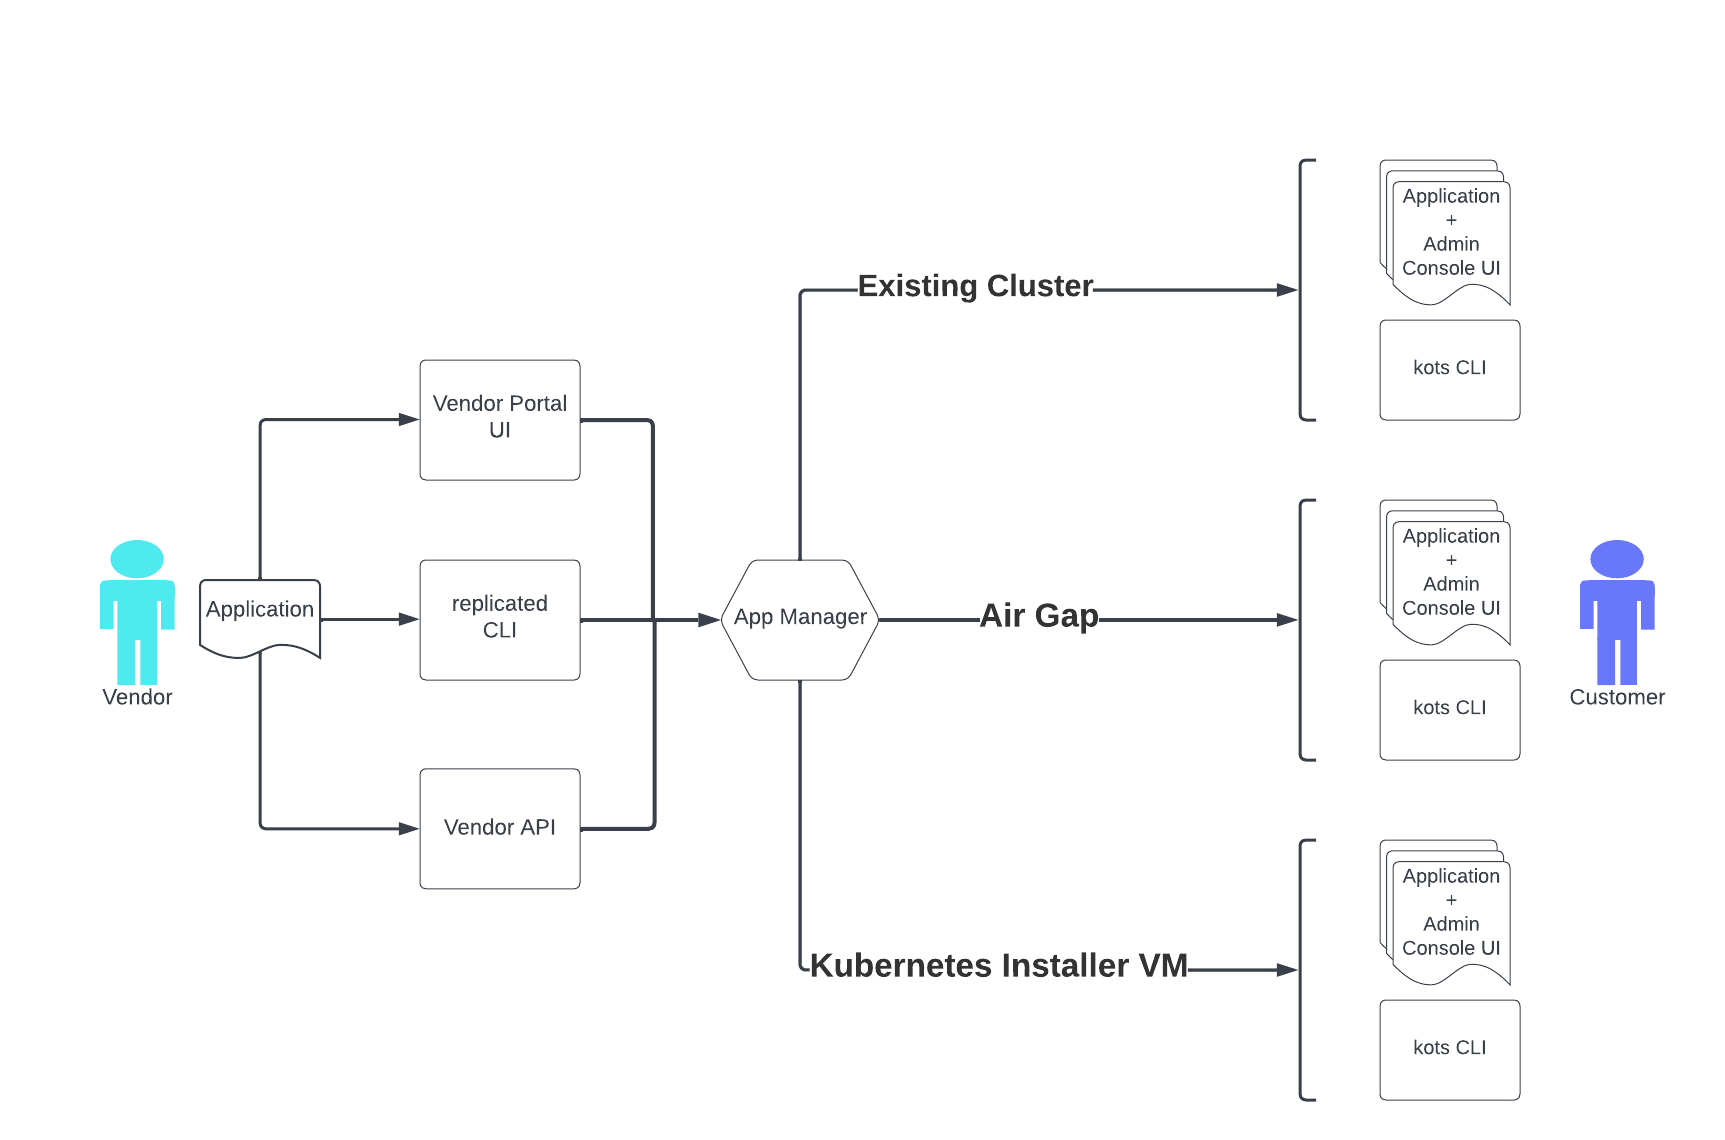
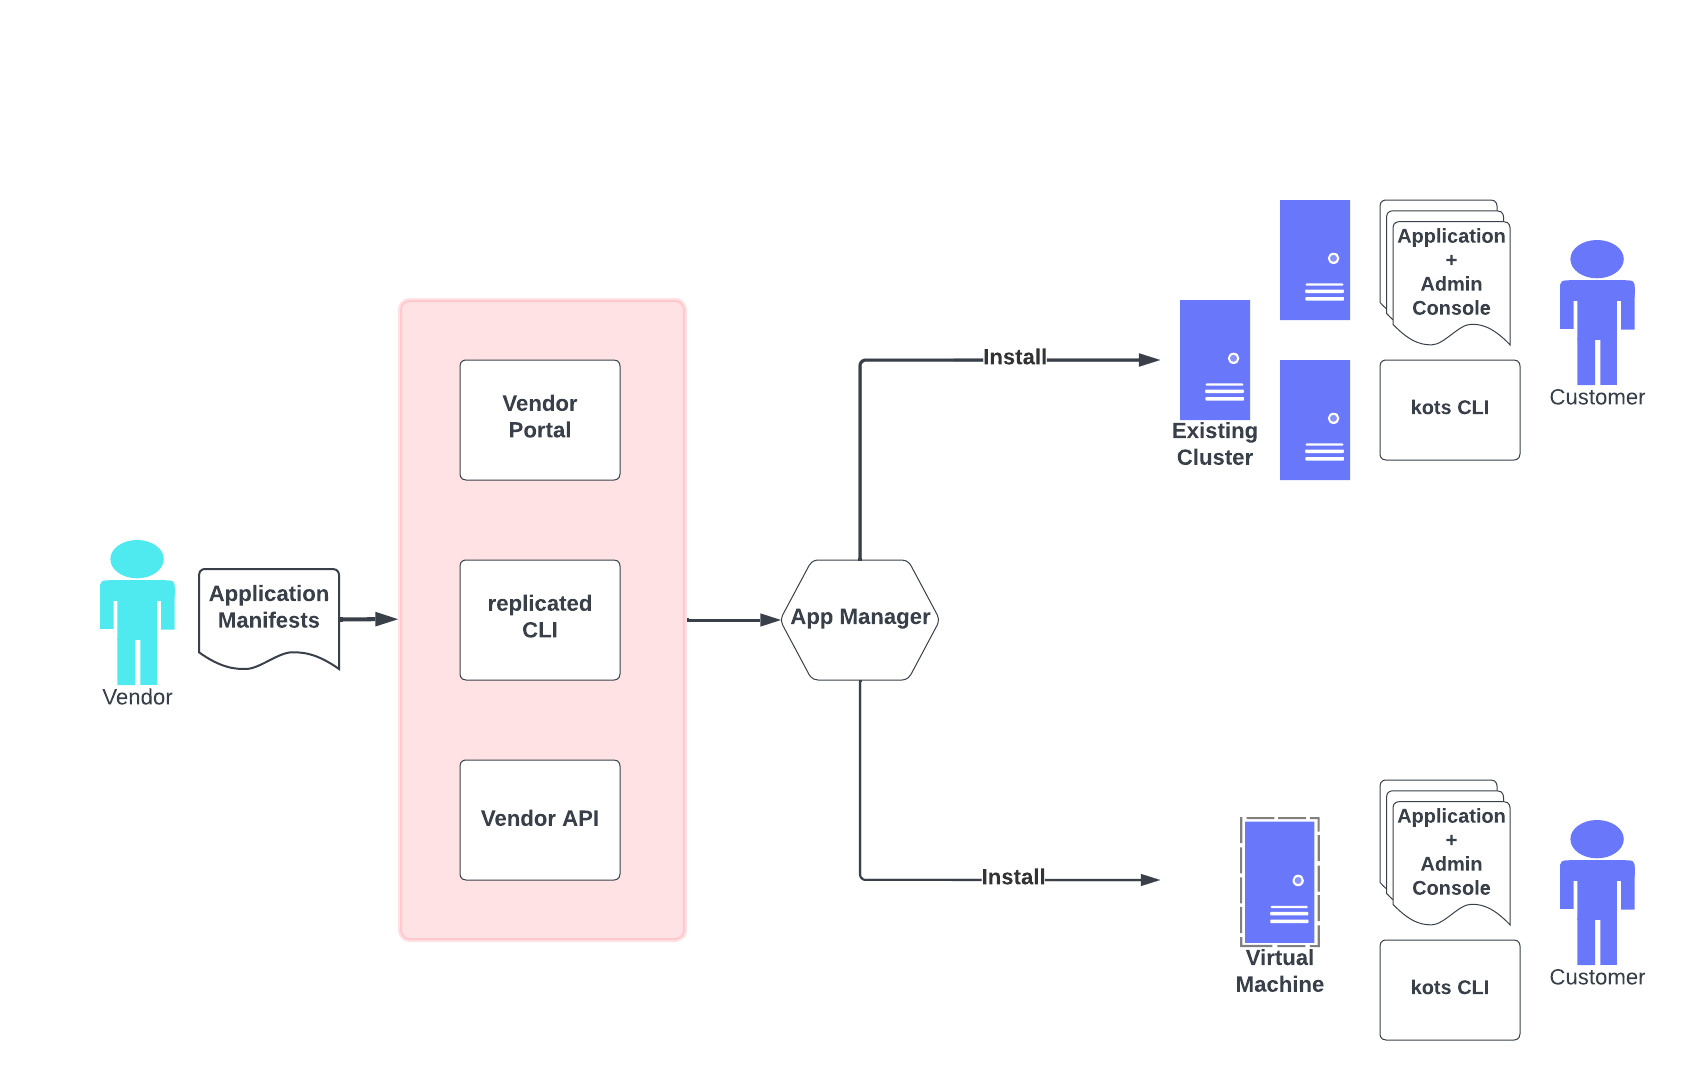
Edits

diff --git a/docs/intro-replicated.md b/docs/intro-replicated.md
@@ -2,6 +2,8 @@
 
 Replicated is an enterprise software distribution platform that lets vendors package their application using Kubernetes manifests or Helm charts and securely distribute their application to diverse customer environments, including both on-premises and cloud environments.
 
+To learn more about Replicated, see [Intro to Replicated: 20 Ways We Help](https://www.youtube.com/watch?v=2eOh7CofY3Q&t=779s) video.
+
 ## Replicated Components
 
 Replicated includes several components that make it easier for vendors to manage their
@@ -13,24 +15,18 @@ users of the application to install, update, and manage their application instan
 
 [View larger image](/images/what-is-replicated.png)
 
-### App Manager
-
-The Replicated app manager is the underlying technology that installs and manages applications on a Kubernetes cluster. The app manager reads the Kubernetes manifest files that you define to package and install an application in a customer environment. It also installs the Replicated admin console and provides preflight and support bundle functionality from the Troubleshoot open source project.
-
-The Replicated app manager is based on the open source KOTS project, which is maintained by Replicated.
-
-### Vendor UI Options
+### Vendor User Interfaces
 
 Vendors can use the following user interface options to package and manage their applications:
 
 <table>
   <tr>
-    <th width="30%">UI Option</th>
+    <th width="30%">User Interface</th>
     <th width="70%">Description</th>
   </tr>
   <tr>
     <td>Vendor Portal</td>
-    <td>The user interface where vendors
+    <td>The graphical user interface where vendors
     define Kubernetes manifest files or Helm charts, including application and custom resource
     manifests. These files describe to the app manager how to
     package the application for distribution. <br></br><br></br>Vendors can also use the vendor portal
@@ -47,19 +43,33 @@ Vendors can use the following user interface options to package and manage their
   </tr>
 </table>
 
+### App Manager
 
-### Customer UI Options
+The Replicated app manager is the underlying technology that installs and manages applications on a Kubernetes cluster. The app manager reads the Kubernetes manifest files that you define to package and install an application in a customer environment. It also installs the Replicated admin console and provides preflight and support bundle functionality from the Troubleshoot open source project.
+
+The app manager deploys applications securely to the following Kubernetes cluster environments:
+
+- Existing clusters
+- Virtual machines, using the Replicated Kubernetes installer
+- Air gapped existing or virtual machine clusters
+
+High availability clusters are supported.
+
+The Replicated app manager is based on the open source KOTS project, which is maintained by Replicated.
+
+
+### Customer User Interfaces
 
 Enterprise customers can use the following user interface options to manage the application in their environment:
 
 <table>
   <tr>
-    <th width="30%">UI Option</th>
+    <th width="30%">User Interface</th>
     <th width="70%">Description</th>
   </tr>
   <tr>
     <td>Admin Console</td>
-    <td>The user interface where customers can configure, update, manage, backup and restore, and troubleshoot
+    <td>The graphical user interface where customers can configure, update, manage, backup and restore, and troubleshoot
     the application. <br></br><br></br>The admin console is deployed by the app manager
     when customers install the application.</td>
   </tr>
@@ -68,33 +78,3 @@ Enterprise customers can use the following user interface options to manage the 
     <td>The kots CLI lets customers interact with the app manager on the command line to manage and troubleshoot the application programmatically. See <a href="reference/kots-cli-getting-started">Installing the kots CLI</a>.</td>
   </tr>
 </table>
-
-
-## Deployment Options
-
-The app manager deploys applications securely to the following on-premise or cloud environments:
-
-<table>
-  <tr>
-    <th width="30%">Environment</th>
-    <th width="70%">Description</th>
-  </tr>
-  <tr>
-    <td>Existing Cluster</td>
-    <td>The app manager can install and deploy applications to a customer's existing Kubernetes cluster.</td>
-  </tr>
-  <tr>
-    <td>Virtual Machine</td>
-    <td>The Replicated Kubernetes installer provisions a Kubernetes
-    cluster on a customer's virtual machine, if they do not have an existing cluster. This deployment is also known as an _embedded cluster_. The Kubernetes installer is based on the open source
-    kURL project, which is maintained by Replicated.</td>
-  </tr>
-  <tr>
-    <td>Air Gap</td>
-    <td>The app manager can install and deploy applications in a customer's secure, air gapped environment.</td>
-  </tr>
-</table>
-
-## Video Resources
-
-- To learn more about Replicated, see [Intro to Replicated: 20 Ways We Help](https://www.youtube.com/watch?v=2eOh7CofY3Q&t=779s).
